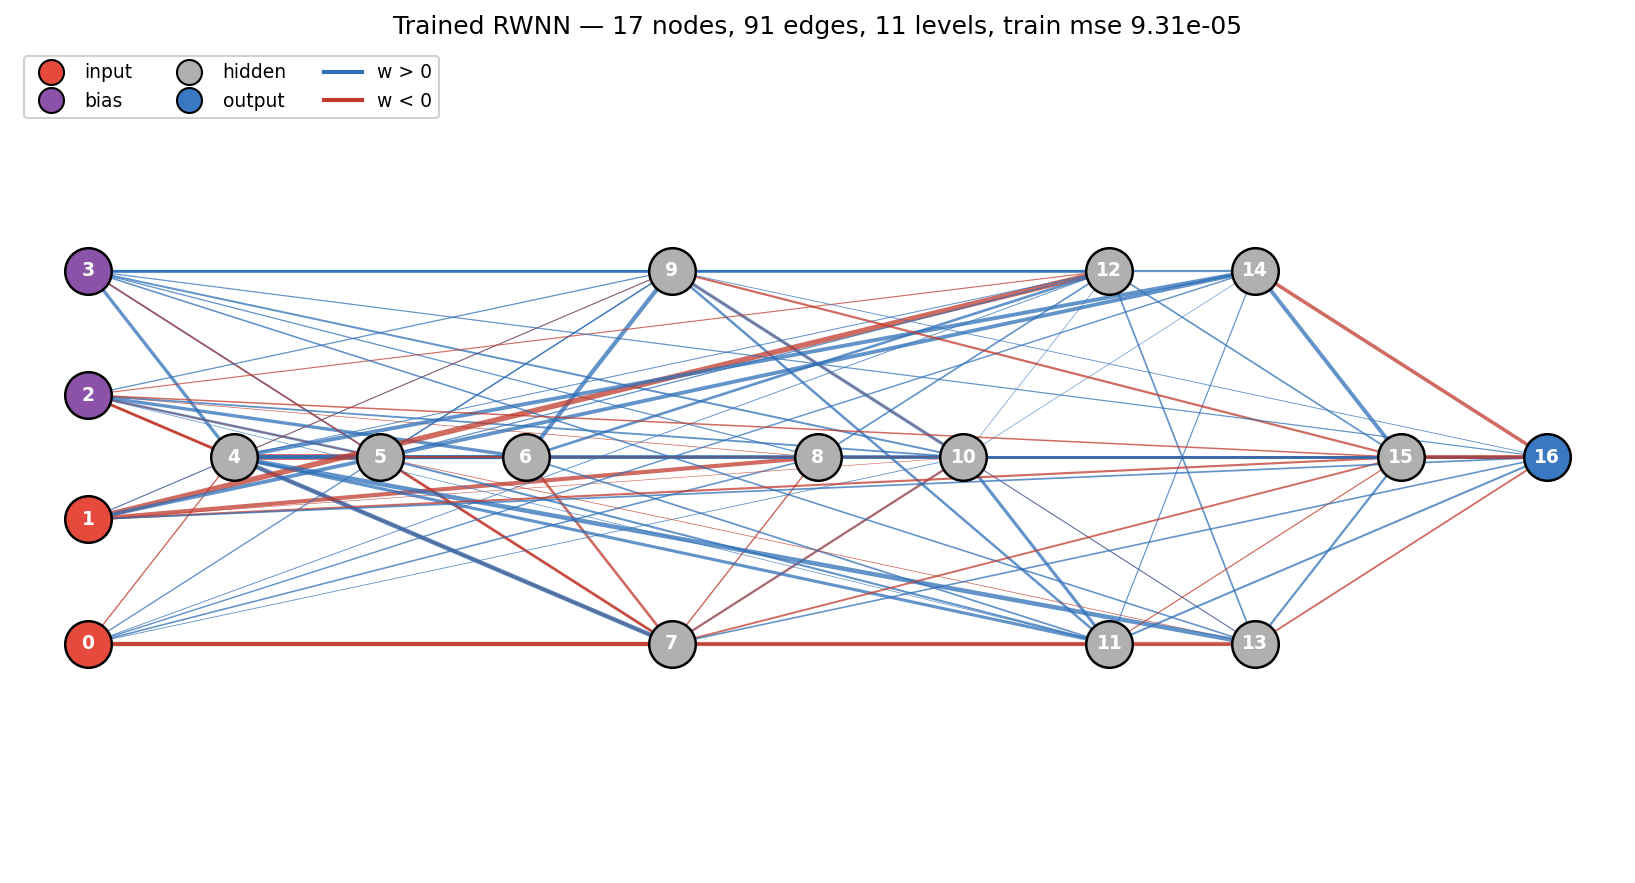
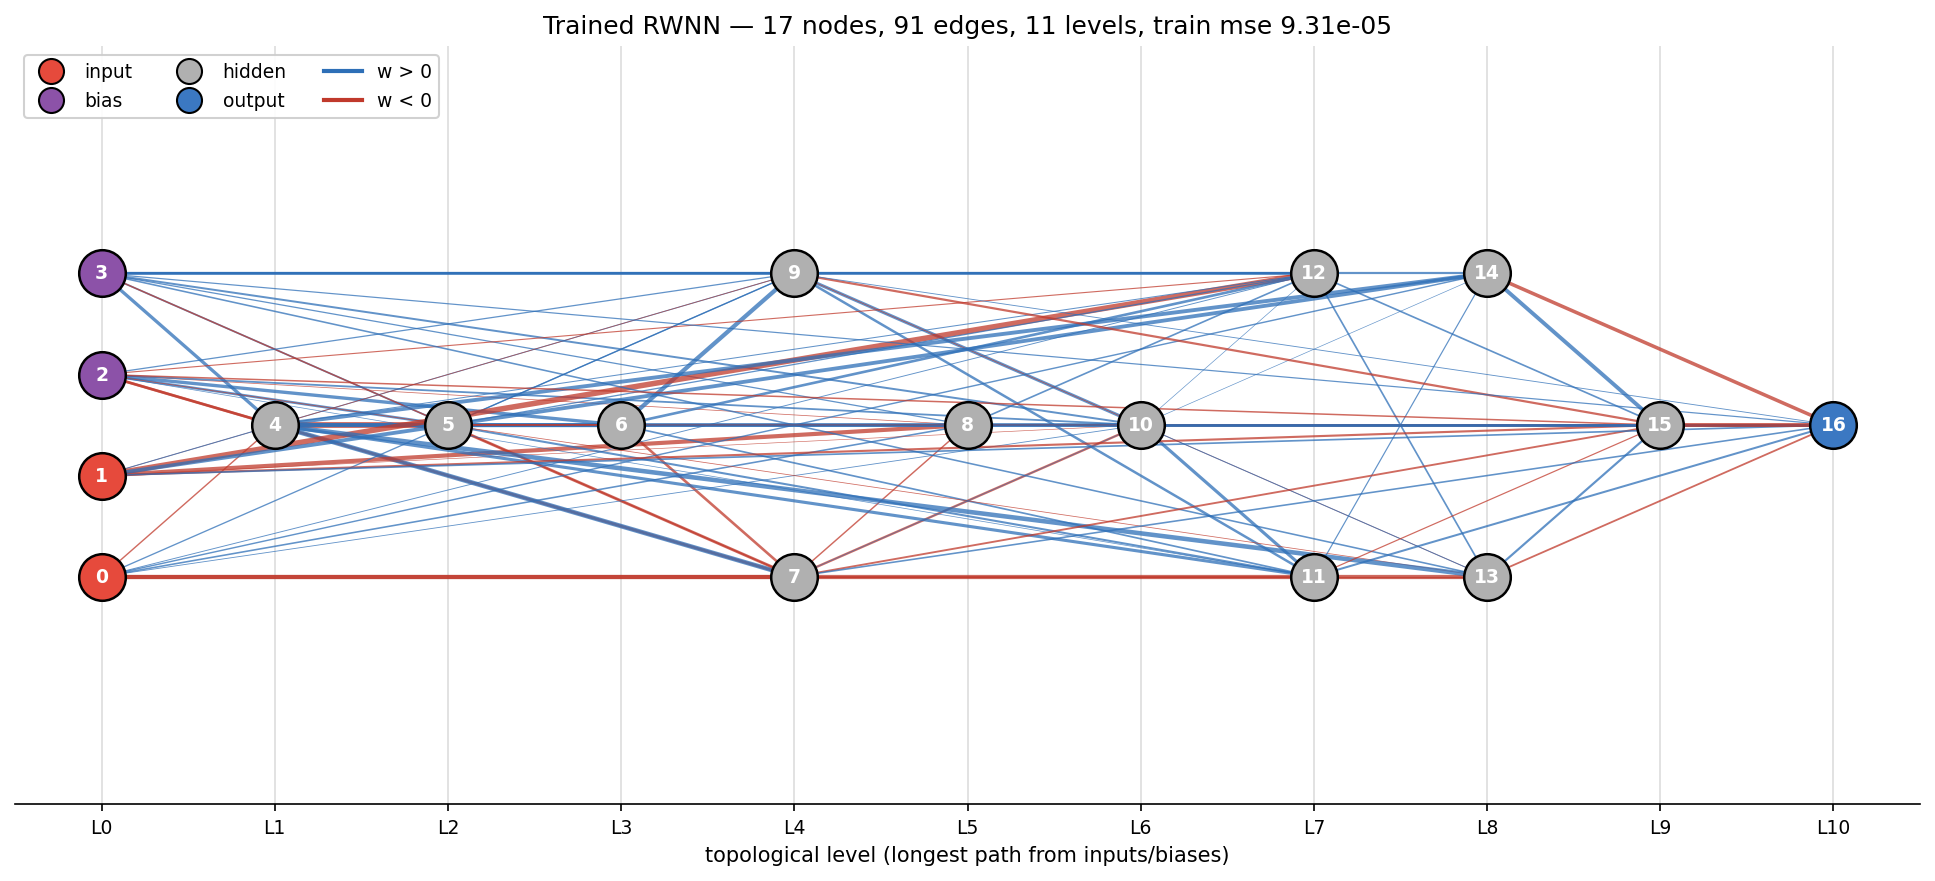
Make topological level structure explicit in graph visualization
- Add L0..L{N-1} tick labels under each column so the left-to-right
  ordering by topological level is obvious at a glance.
- Light vertical gridlines mark each level.
- Within a level, sort nodes by role (input → bias → hidden → output)
  then by id for a deterministic, readable layout.

diff --git a/Part1/visualize.py b/Part1/visualize.py
@@ -50,15 +50,26 @@ def _color_for(role: str) -> str:
     }[role]
 
 
+_ROLE_SORT_KEY = {"input": 0, "bias": 1, "hidden": 2, "output": 3}
+
+
 def layered_positions(graph) -> dict[int, tuple[float, float]]:
-    """Group nodes by topological level and spread them vertically per level."""
+    """Group nodes by topological level and spread them vertically per level.
+
+    Within a level, nodes are ordered by role (inputs → biases → hidden →
+    outputs) then by node id, so the layout is deterministic and easy to
+    read.
+    """
     level_nodes = graph.level_nodes.tolist()
     level_starts = graph.level_starts.tolist()
     pos = {}
     n_levels = len(level_starts) - 1
     for ℓ in range(n_levels):
         s, e = level_starts[ℓ], level_starts[ℓ + 1]
-        nodes = level_nodes[s:e]
+        nodes = sorted(
+            level_nodes[s:e],
+            key=lambda i: (_ROLE_SORT_KEY[_role_of(i, graph)], i),
+        )
         if not nodes:
             continue
         n = len(nodes)
@@ -79,8 +90,11 @@ def draw(graph, weights: np.ndarray, out_path: str, title: str | None = None):
     # Linewidth in [0.3, 2.8] scaled by |weight|.
     lw = 0.3 + 2.5 * (w_abs / (w_max + 1e-12))
 
-    fig, ax = plt.subplots(figsize=(11, 6))
-    ax.set_axis_off()
+    fig, ax = plt.subplots(figsize=(13, 6))
+
+    # Light vertical gridlines marking each topological level.
+    for ℓ in range(graph.n_levels):
+        ax.axvline(ℓ, color="#DDDDDD", linewidth=0.8, zorder=0)
 
     # Edges first (so nodes draw on top).
     for e in range(len(edge_src)):
@@ -123,7 +137,13 @@ def draw(graph, weights: np.ndarray, out_path: str, title: str | None = None):
                  f"{graph.n_levels} levels")
     ax.set_title(title)
     ax.set_xlim(-0.5, graph.n_levels - 0.5)
-    ax.set_ylim(-1.1, 1.1)
+    ax.set_ylim(-1.25, 1.25)
+    ax.set_xticks(range(graph.n_levels))
+    ax.set_xticklabels([f"L{ℓ}" for ℓ in range(graph.n_levels)], fontsize=9)
+    ax.set_yticks([])
+    ax.set_xlabel("topological level (longest path from inputs/biases)")
+    for spine in ("top", "right", "left"):
+        ax.spines[spine].set_visible(False)
 
     fig.tight_layout()
     fig.savefig(out_path, dpi=150, bbox_inches="tight")
